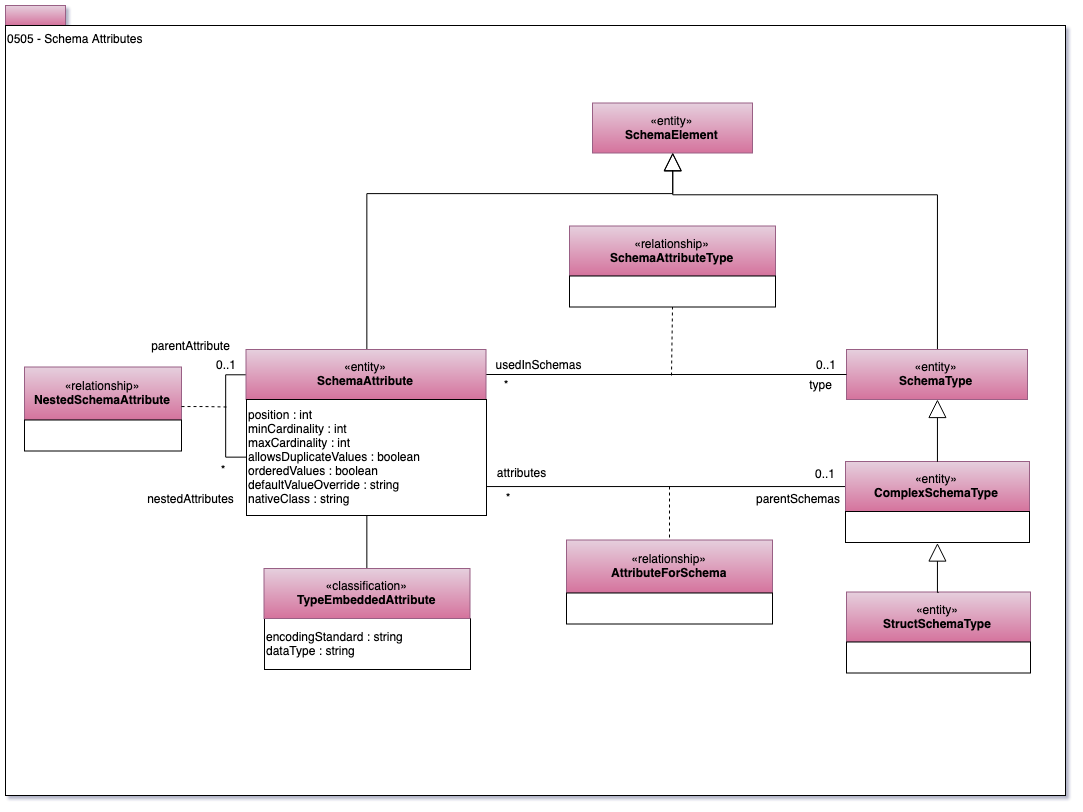
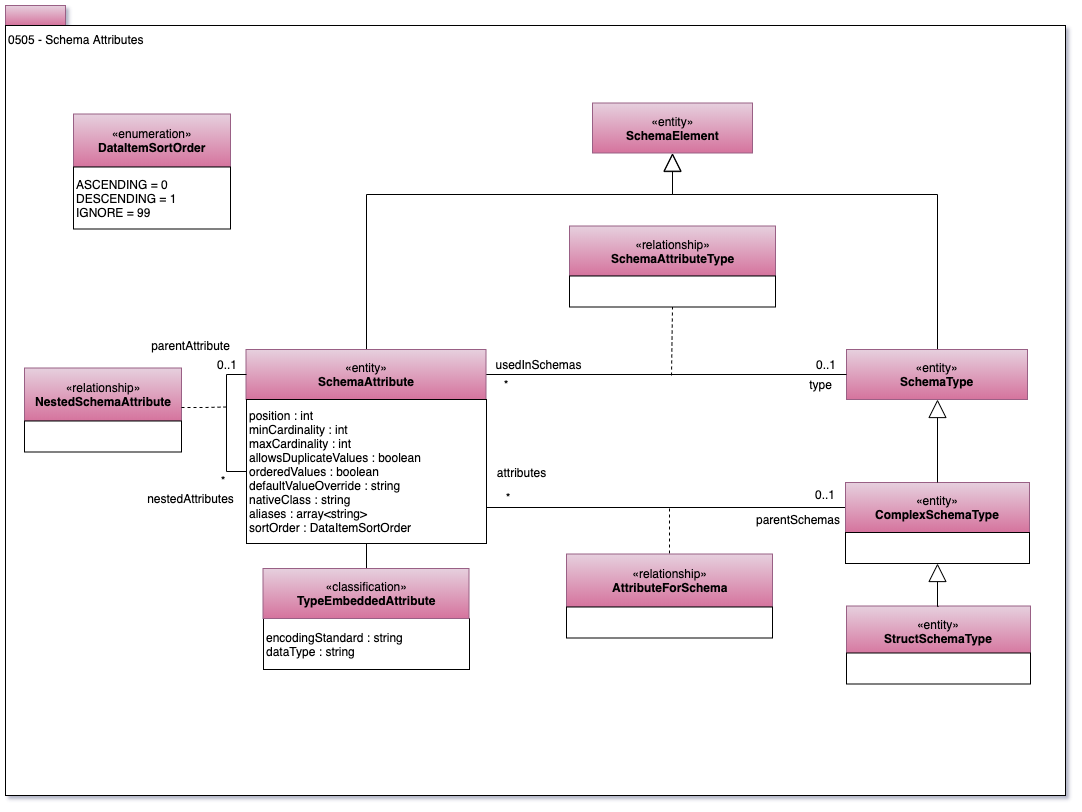
New types for Avro (#1095,#1094,#1093,#1092)

diff --git a/open-metadata-resources/open-metadata-archives/open-metadata-types/src/main/java/org/odpi/openmetadata/opentypes/OpenMetadataTypesArchive.java b/open-metadata-resources/open-metadata-archives/open-metadata-types/src/main/java/org/odpi/openmetadata/opentypes/OpenMetadataTypesArchive.java
@@ -18300,6 +18300,8 @@ public class OpenMetadataTypesArchive
      */
     private void add0505SchemaAttributes()
     {
+        this.archiveBuilder.addEnumDef(getDataItemSortOrderEnum());
+
         this.archiveBuilder.addEntityDef(getSchemaAttributeEntity());
         this.archiveBuilder.addEntityDef(getComplexSchemaTypeEntity());
         this.archiveBuilder.addEntityDef(getStructSchemaTypeEntity());
@@ -18309,6 +18311,56 @@ public class OpenMetadataTypesArchive
         this.archiveBuilder.addRelationshipDef(getNestedSchemaAttributeRelationship());
 
         this.archiveBuilder.addClassificationDef(getTypeEmbeddedAttributeClassification());
+    }
+
+    private EnumDef getDataItemSortOrderEnum()
+    {
+        final String guid            = "aaa4df8f-1aca-4de8-9abd-1ef2aadba300";
+        final String name            = "DataItemSortOrder";
+        final String description     = "Defines the suggested order that data values in this data item should be sorted by.";
+        final String descriptionGUID = null;
+
+        EnumDef enumDef = archiveHelper.getEmptyEnumDef(guid, name, description, descriptionGUID);
+
+        ArrayList<EnumElementDef> elementDefs = new ArrayList<>();
+        EnumElementDef            elementDef;
+
+        final int    element1Ordinal         = 0;
+        final String element1Value           = "Ascending";
+        final String element1Description     = "Sort the data values so that they increase in value.";
+        final String element1DescriptionGUID = null;
+
+        elementDef = archiveHelper.getEnumElementDef(element1Ordinal,
+                                                     element1Value,
+                                                     element1Description,
+                                                     element1DescriptionGUID);
+        elementDefs.add(elementDef);
+
+        final int    element2Ordinal         = 1;
+        final String element2Value           = "Descending";
+        final String element2Description     = "Sort the data values so that they decrease in value.";
+        final String element2DescriptionGUID = null;
+
+        elementDef = archiveHelper.getEnumElementDef(element2Ordinal,
+                                                     element2Value,
+                                                     element2Description,
+                                                     element2DescriptionGUID);
+        elementDefs.add(elementDef);
+
+        final int    element8Ordinal         = 99;
+        final String element8Value           = "Ignore";
+        final String element8Description     = "No specific sort order.";
+        final String element8DescriptionGUID = null;
+
+        elementDef = archiveHelper.getEnumElementDef(element8Ordinal,
+                                                     element8Value,
+                                                     element8Description,
+                                                     element8DescriptionGUID);
+        elementDefs.add(elementDef);
+
+        enumDef.setElementDefs(elementDefs);
+
+        return enumDef;
     }
 
 
@@ -18334,7 +18386,7 @@ public class OpenMetadataTypesArchive
         TypeDefAttribute       property;
 
         final String attribute1Name            = "position";
-        final String attribute1Description     = "Position in the schema, starting at zero.";
+        final String attribute1Description     = "Location of the attribute in the parent schema's list of attributes, starting at zero.";
         final String attribute1DescriptionGUID = null;
         final String attribute2Name            = "minCardinality";
         final String attribute2Description     = "Minimum number of occurrences of this attribute allowed (0 = optional, 1+ = mandatory).";
@@ -18357,6 +18409,12 @@ public class OpenMetadataTypesArchive
         final String attribute8Name            = "name";
         final String attribute8Description     = "Name of schema attribute (deprecated).";
         final String attribute8DescriptionGUID = null;
+        final String attribute9Name            = "aliases";
+        final String attribute9Description     = "List of aliases for attribute.";
+        final String attribute9DescriptionGUID = null;
+        final String attribute10Name            = "sortOrder";
+        final String attribute10Description     = "Suggested ordering of values in this attribute.";
+        final String attribute10DescriptionGUID = null;
 
         property = archiveHelper.getIntTypeDefAttribute(attribute1Name,
                                                         attribute1Description,
@@ -18389,6 +18447,15 @@ public class OpenMetadataTypesArchive
         property = archiveHelper.getStringTypeDefAttribute(attribute8Name,
                                                            attribute8Description,
                                                            attribute8DescriptionGUID);
+        properties.add(property);
+        property = archiveHelper.getArrayStringTypeDefAttribute(attribute9Name,
+                                                                attribute9Description,
+                                                                attribute9DescriptionGUID);
+        properties.add(property);
+        property = archiveHelper.getEnumTypeDefAttribute("DataItemSortOrder",
+                                                         attribute10Name,
+                                                         attribute10Description,
+                                                         attribute10DescriptionGUID);
         properties.add(property);
 
         entityDef.setPropertiesDefinition(properties);
@@ -23717,6 +23784,15 @@ public class OpenMetadataTypesArchive
         final String attribute5Name            = "anchorGUID";
         final String attribute5Description     = "Optional identifier of the asset that this data field is indirectly connected to.";
         final String attribute5DescriptionGUID = null;
+        final String attribute6Name            = "dataFieldDescription";
+        final String attribute6Description     = "Optional descriptive information about a data field.";
+        final String attribute6DescriptionGUID = null;
+        final String attribute7Name            = "dataFieldAliases";
+        final String attribute7Description     = "Optional list of aliases for the data field.";
+        final String attribute7DescriptionGUID = null;
+        final String attribute8Name            = "dataFieldSortOrder";
+        final String attribute8Description     = "Sort order for the values of the data field.";
+        final String attribute8DescriptionGUID = null;
 
         property = archiveHelper.getStringTypeDefAttribute(attribute1Name,
                                                            attribute1Description,
@@ -23738,7 +23814,19 @@ public class OpenMetadataTypesArchive
                                                            attribute5Description,
                                                            attribute5DescriptionGUID);
         properties.add(property);
-
+        property = archiveHelper.getStringTypeDefAttribute(attribute6Name,
+                                                           attribute6Description,
+                                                           attribute6DescriptionGUID);
+        properties.add(property);
+        property = archiveHelper.getArrayStringTypeDefAttribute(attribute7Name,
+                                                                attribute7Description,
+                                                                attribute7DescriptionGUID);
+        properties.add(property);
+        property = archiveHelper.getEnumTypeDefAttribute("DataItemSortOrder",
+                                                         attribute8Name,
+                                                         attribute8Description,
+                                                         attribute8DescriptionGUID);
+        properties.add(property);
         entityDef.setPropertiesDefinition(properties);
 
         return entityDef;
@@ -23860,7 +23948,7 @@ public class OpenMetadataTypesArchive
         TypeDefAttribute       property;
 
         final String attribute1Name            = "dataFieldPosition";
-        final String attribute1Description     = "Positional order of the data field in the parent annotation.";
+        final String attribute1Description     = "Location of the data field in the parent annotation's list of data fields.";
         final String attribute1DescriptionGUID = null;
 
         property = archiveHelper.getIntTypeDefAttribute(attribute1Name,

diff --git a/open-metadata-resources/open-metadata-archives/open-metadata-types/README.md b/open-metadata-resources/open-metadata-archives/open-metadata-types/README.md
@@ -6,7 +6,37 @@
 The Open Metadata Types provides the type definitions for open metadata.
 They are packaged into an open metadata archive.
 
-The supported types are [documented here](../../../open-metadata-publication/website/open-metadata-types).
+The open metadata types are [documented here](../../../open-metadata-publication/website/open-metadata-types).
+
+The open metadata archive for these types is built by the `OpenMetadataTypesArchive` Java class.
+It uses the Open Metadata Repository Services (OMRS) archive building
+classes `OMRSArchiveBuilder` and `OMRSArchiveHelper` found in the `repository-services-archive-utilities` module.
+
+It is possible to add new types by creating a similar Java class to `OpenMetadataTypesArchive` that defines
+and maintains the additional types that you would like to define.
+
+If you would like your new types to extend the open metadata types, set the open metadata archive as an
+archive that your new archive depends on ...
+
+```
+        List<OpenMetadataArchive>  dependentOpenMetadataArchives = new ArrayList<>();
+
+        dependentOpenMetadataArchives.add(new OpenMetadataTypesArchive().getOpenMetadataArchive());
+
+        this.archiveBuilder = new OMRSArchiveBuilder(archiveGUID,
+                                                     archiveName,
+                                                     archiveDescription,
+                                                     archiveType,
+                                                     originatorName,
+                                                     originatorLicense,
+                                                     creationDate,
+                                                     dependentOpenMetadataArchives);
+```
+
+This approach is used in the `design-model-archives` that create archives with glossary and model content
+that follow the open metadata types.
+
+You can create an archive file containing the open metadata types by running the `OpenMetadataTypesArachiveWriter`.
 
 ----
 License: [CC BY 4.0](https://creativecommons.org/licenses/by/4.0/),
